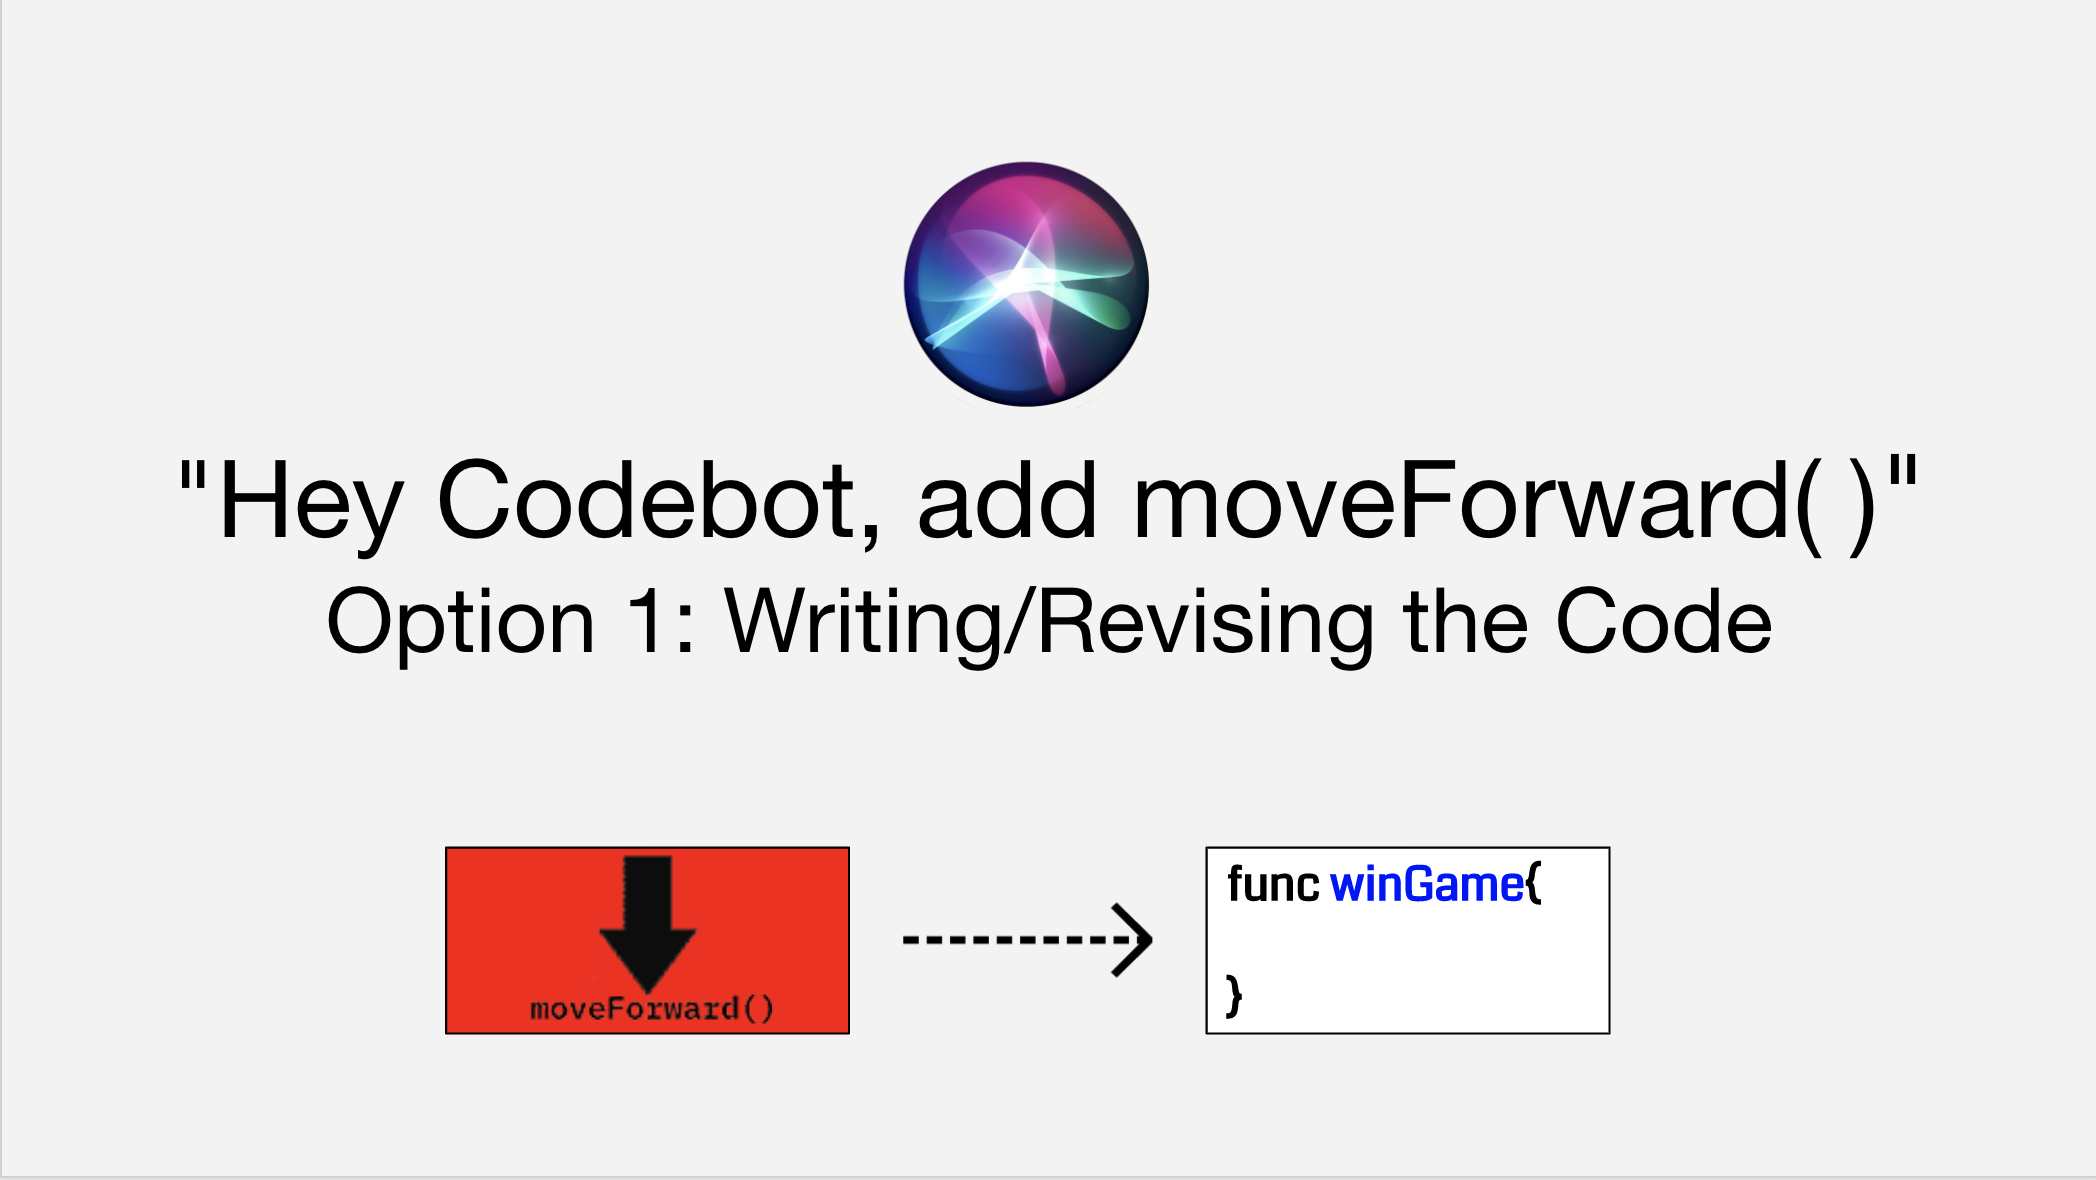
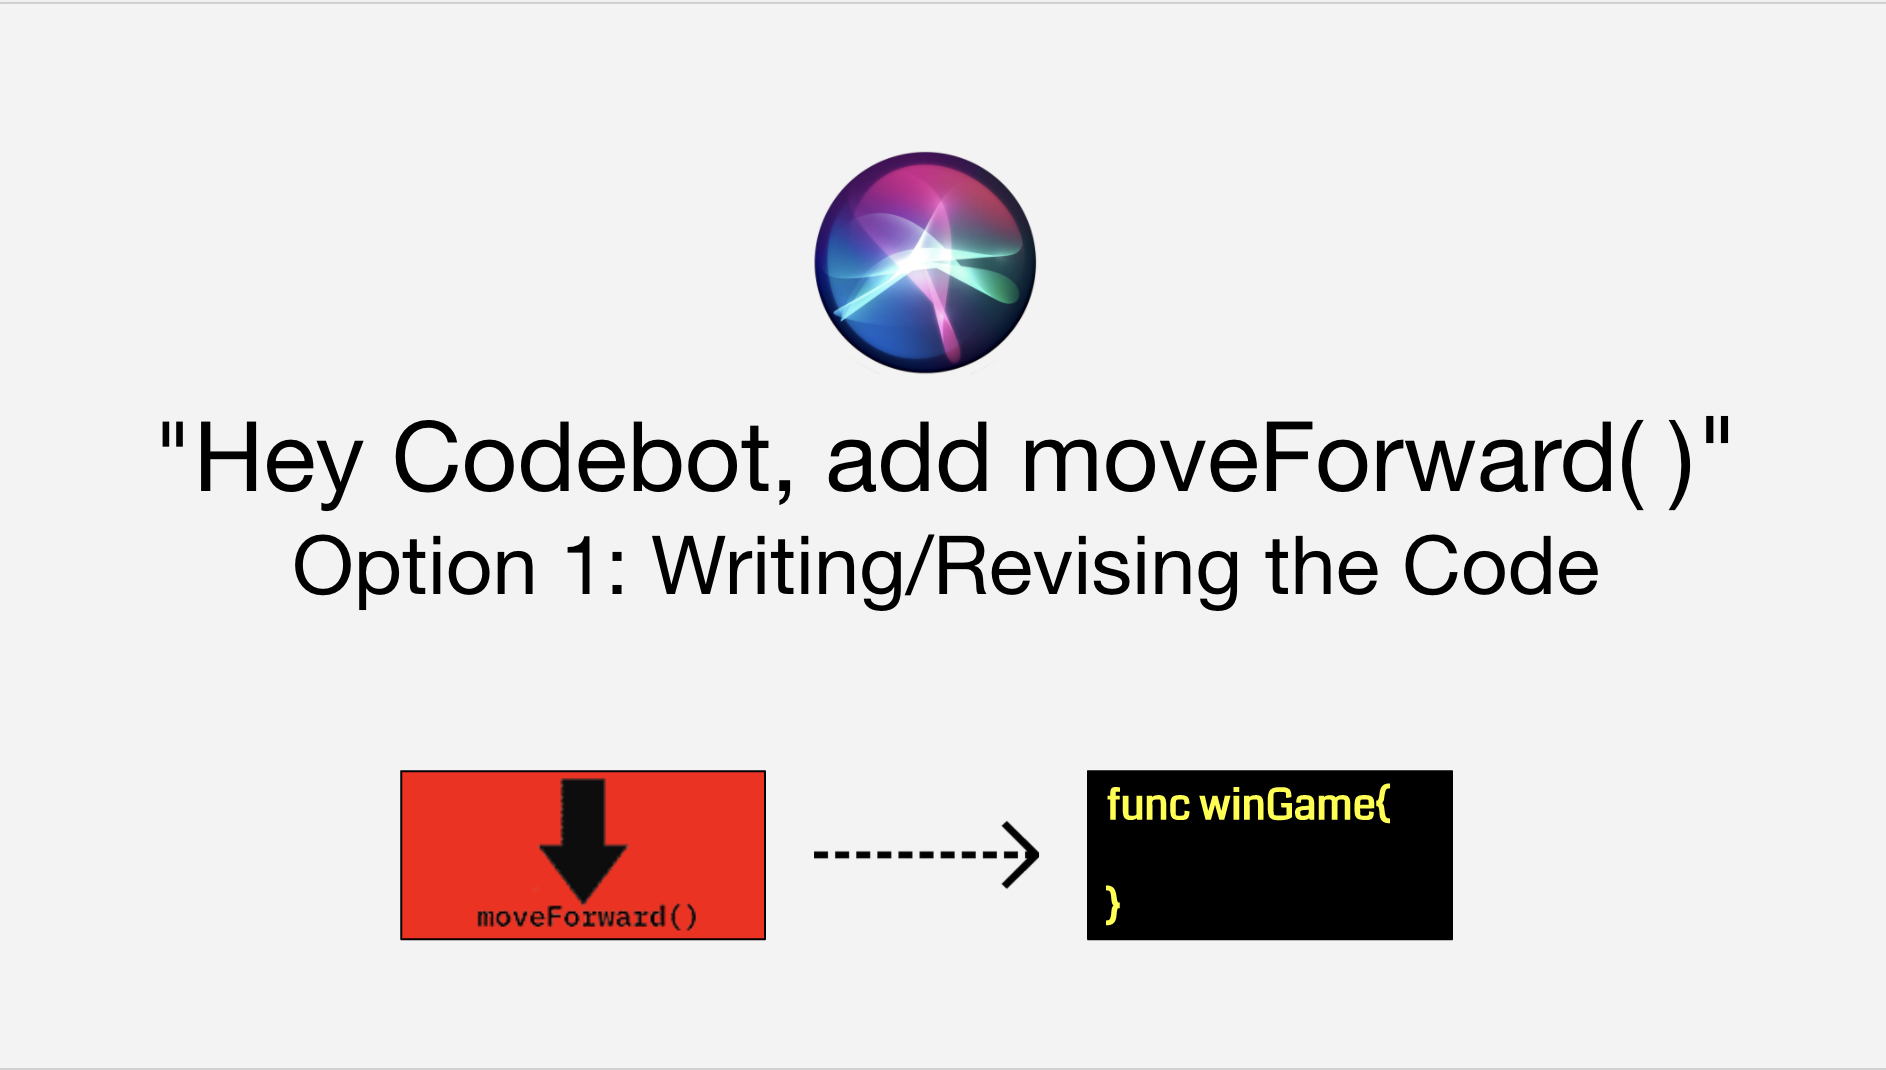
new pulldown 2 symbol and added slides

diff --git a/presentation.html b/presentation.html
@@ -44,6 +44,39 @@
       </div>
     </div>
     <div class="swiper-slide">
+      <figure class="slide-bgimg" style="background-image:url('img/ms-design-bg.png')">
+        <img src="img/ms-design-bg.png" class="entity-img" />
+      </figure>
+      <div class="content">
+        <p class="title">Shaun Matthews</p>
+        <span class="caption">
+            <a href="index.html" class="home"><img src="">Prototype Demo</a>
+        </span>
+      </div>
+    </div>
+    <div class="swiper-slide">
+      <figure class="slide-bgimg" style="background-image:url('img/limitations-bg.png')">
+        <img src="img/limitations-bg.png" class="entity-img" />
+      </figure>
+      <div class="content">
+        <p class="title">Shaun Matthews</p>
+        <span class="caption">
+            <a href="index.html" class="home"><img src="">Prototype Demo</a>
+        </span>
+      </div>
+    </div>
+    <div class="swiper-slide">
+      <figure class="slide-bgimg" style="background-image:url('img/solution-bg.png')">
+        <img src="img/solution-bg.png" class="entity-img" />
+      </figure>
+      <div class="content">
+        <p class="title">Shaun Matthews</p>
+        <span class="caption">
+            <a href="index.html" class="home"><img src="">Prototype Demo</a>
+        </span>
+      </div>
+    </div>
+    <!-- <div class="swiper-slide">
       <figure class="slide-bgimg" style="background-image:url('./img/slide2-bg.png')">
         <img src="./img/slide2-bg.png" class="entity-img" />
       </figure>
@@ -66,16 +99,16 @@
       </div>
     </div>
     <div class="swiper-slide">
-      <figure class="slide-bgimg" style="background-image:url('./images/msr1.png')">
-        <img src="./images/msr1.png" class="entity-img" />
+      <figure class="slide-bgimg" style="background-image:url('./img/slide4-bg.png')">
+        <img src="'./img/slide4-bg.png'" class="entity-img" />
       </figure>
       <div class="content">
         <p class="title">Billie	Pierce</p>
         <span class="caption">
-            <a href="../index.html" class="home"><img src="./images/home.png"></a>
+            <a href="index.html" class="home"><img src="">Prototype Demo</a>
         </span>
       </div>
-    </div>
+    </div> --> 
     <div class="swiper-slide">
       <figure class="slide-bgimg" style="background-image:url('./images/msr2.png')">
         <img src="./images/msr2.png" class="entity-img" />
@@ -358,6 +391,30 @@
       </div>
     </div>
     <div class="swiper-slide">
+      <figure class="slide-bgimg" style="background-image:url('./img/ms-design-thumbnail.png')">
+        <img src="./img/ms-design-thumbnail.png" class="entity-img" />
+      </figure>
+      <div class="content">
+        <p class="title">Trevor	Copeland</p>
+      </div>
+    </div>
+    <div class="swiper-slide">
+      <figure class="slide-bgimg" style="background-image:url('./img/limitations-thumbnail.png')">
+        <img src="./img/limitations-thumbnail.png" class="entity-img" />
+      </figure>
+      <div class="content">
+        <p class="title">Trevor	Copeland</p>
+      </div>
+    </div>
+    <div class="swiper-slide">
+      <figure class="slide-bgimg" style="background-image:url('./img/solution-thumbnail.png')">
+        <img src="./img/solution-thumbnail.png" class="entity-img" />
+      </figure>
+      <div class="content">
+        <p class="title">Trevor	Copeland</p>
+      </div>
+    </div>
+    <!-- <div class="swiper-slide">
       <figure class="slide-bgimg" style="background-image:url('img/access-codebot2.png')">
         <img src="img/a11y_cover2.png" class="entity-img" />
       </figure>
@@ -374,21 +431,13 @@
       </div>
     </div>
     <div class="swiper-slide">
-      <figure class="slide-bgimg" style="background-image:url('./images/msr1-title.png')">
-        <img src="./images/msr1-title.png" class="entity-img" />
+      <figure class="slide-bgimg" style="background-image:url('./img/slide4-thumbnail.png">
+        <img src="./img/slide4-thumbnail.png" class="entity-img" />
       </figure>
       <div class="content">
         <p class="title">Billie	Pierce</p>
       </div>
-    </div>
-    <div class="swiper-slide">
-      <figure class="slide-bgimg" style="background-image:url('./images/msr2-title.png')">
-        <img src="./images/msr2-title.png" class="entity-img" />
-      </figure>
-      <div class="content">
-        <p class="title">Trevor	Copeland</p>
-      </div>
-    </div>
+    </div> -->
     <div class="swiper-slide">
       <figure class="slide-bgimg" style="background-image:url('./images/activities1-title.png')">
         <img src="./images/activities1-title.png" class="entity-img" />

diff --git a/styles.css b/styles.css
@@ -266,8 +266,8 @@ body{
 #func:hover ~#two-finger2{
   display:block;
   font-family: 'Trispace', sans-serif;
-  background-color: white;
-  width: 170px;
+  background-color: black;
+  width: 155px;
 }
 /* ********************************************************************************************************* */
 #sketchpadapp {
@@ -492,7 +492,7 @@ justify-items: center;
 display: flex;
 justify-content: center;
 justify-items: center;
-margin-top:-20px;
+margin-top:-17px;
 
 }
 #crash{
@@ -701,7 +701,7 @@ margin-top:5px;
   display: flex;
   justify-content: center;
   justify-items: center;
-  margin-top:-15px;
+  margin-top:-27px;
   
   }
 #cloud-button-mini{
@@ -825,6 +825,7 @@ display: flex;
 justify-content: center;
 justify-items: center;
 /* margin-top:10px; */
+margin-bottom:15px;
 }
 #collect{
 display:absolute;
@@ -914,6 +915,7 @@ text-decoration: none; */
   display: flex;
   justify-content: center;
   justify-items: center;
+  margin-bottom: 15px;
   }
 
   #toggle-switch2{
@@ -949,6 +951,7 @@ text-decoration: none; */
     display: flex;
     justify-content: center;
     justify-items: center;
+    margin-bottom:15px;
     }
     .toggle:hover {
       -webkit-animation: swing 0.5s ease-out;

diff --git a/index.html b/index.html
@@ -121,7 +121,7 @@
                            </div> -->
                                
                             <div class="pulldown2">
-                                <img id="func" src="img/coding.png" onclick="document.getElementById('run-code').play()" ondblclick="document.getElementById('run-code').pause()">
+                                <img id="func" src="img/code-symbol.png" onclick="document.getElementById('run-code').play()" ondblclick="document.getElementById('run-code').pause()">
                                 <span id="two-finger2">
                                     <div class="options2">
                                     <div id="remove-commands"><img id="code-bar" src="img/code_bar.png"></div>
